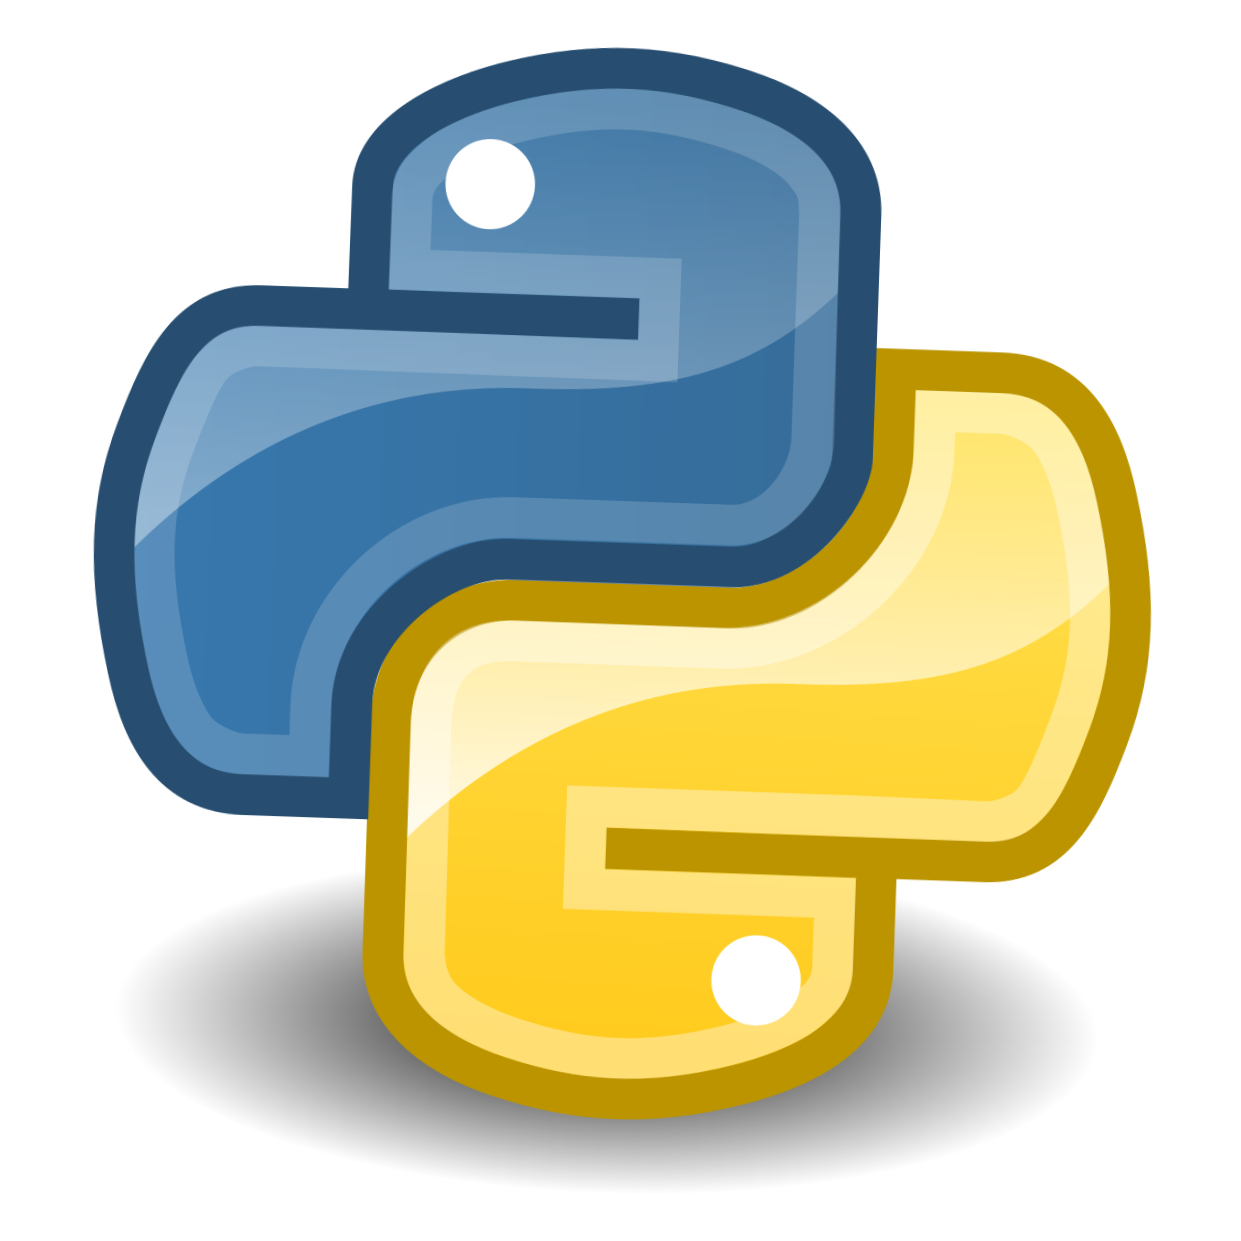
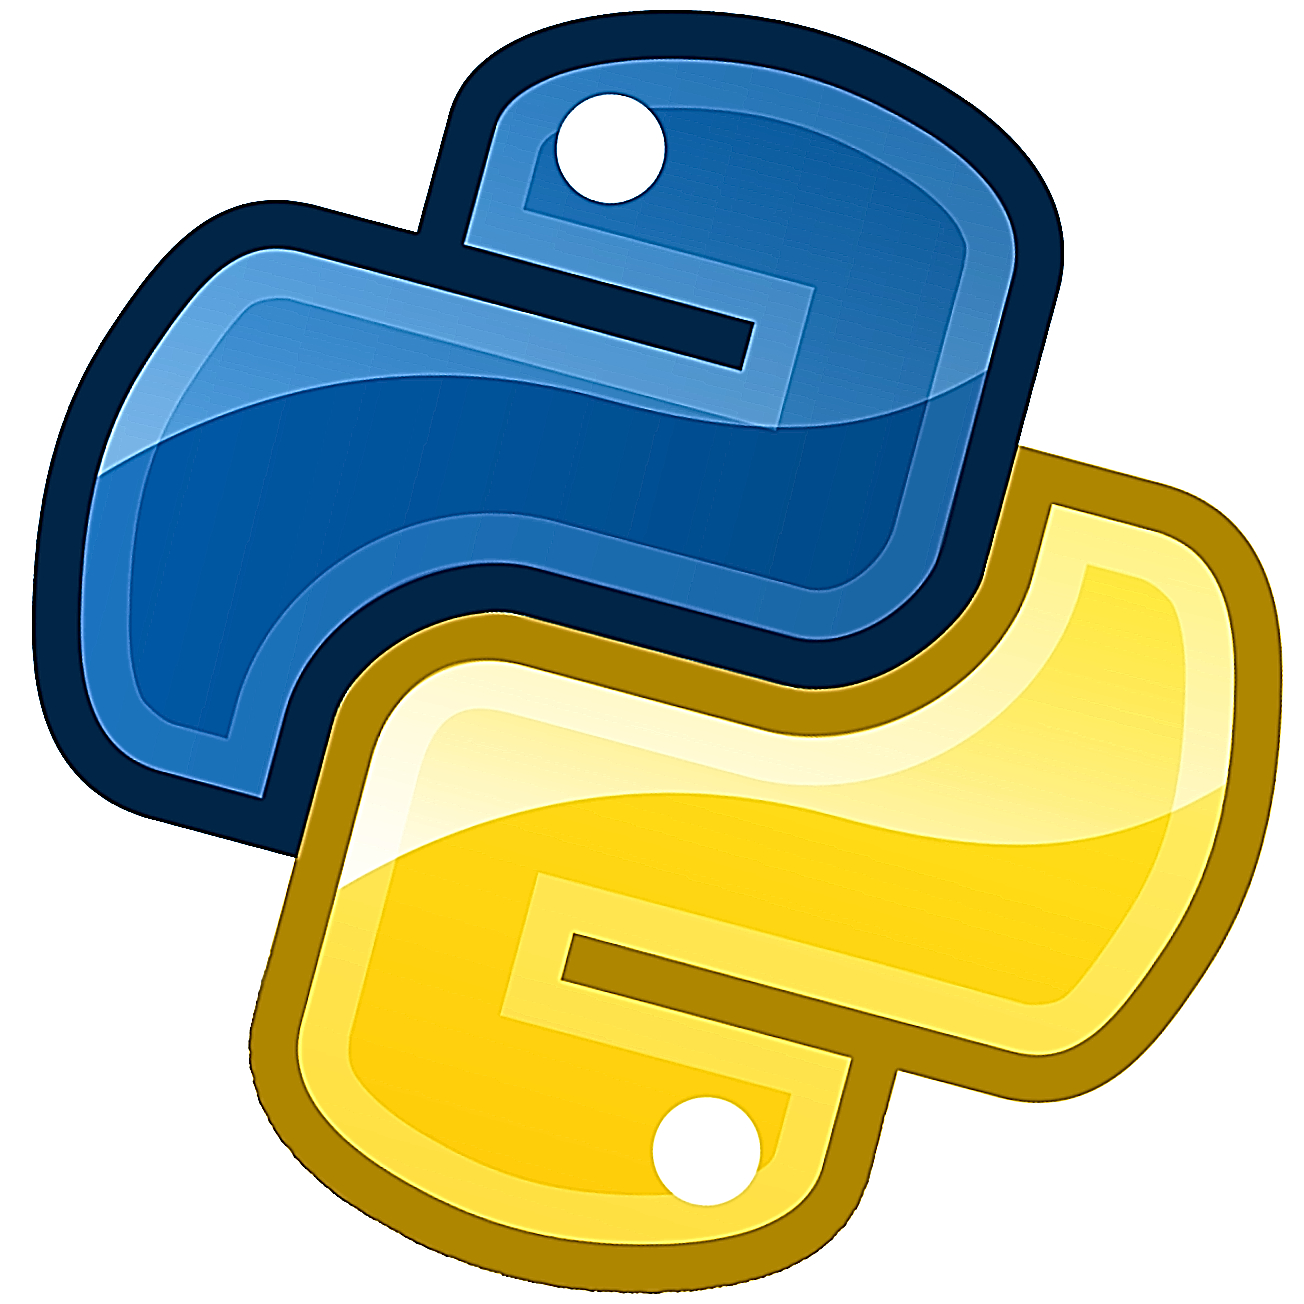
minor changes

diff --git a/parse/simple_parse.py b/parse/simple_parse.py
@@ -104,7 +104,7 @@ def main(cfg):
 
 
 	# извлекаем из них частотный словарь
-	print('counting words... [please wait - about 3 minutes] ', end='', flush=True)
+	print('counting words... [please wait - about minute] ', end='', flush=True)
 	words_counts = Counter()
 
 	# параметр 'i' - для тестирования
@@ -122,13 +122,13 @@ def main(cfg):
 	with Image.open(io.BytesIO(urlopen(cfg['image_url']).read())) as img:
 		print('printing image... ', end='', flush=True)
 		img_mask = np.array(img)
-		wc = wcloud(width=800,
-					height=165,
+		wc = wcloud(width=1100,
+					height=1100,
 					min_font_size=1,
 					background_color=cfg['bg_color'],
 					max_words=cfg['cloud_max_wrds'], 
 					mask=img_mask,
-					max_font_size=50, 
+					max_font_size=80, 
 					random_state=42)
 		wc.generate_from_frequencies(words_counts)
 		image_colors = ImageColorGenerator(img_mask)
@@ -148,7 +148,7 @@ cfg = {'params': {'q': 'Russia',
 	'url': 
 		'https://news.google.com/_/rss/search',
 	'image_url': 
-		'https://raw.githubusercontent.com/Gronix/py_examples/master/parse/Python.png',
+		'https://lh5.googleusercontent.com/dsOWR_WRQx8YvxJbX_k_BJOsH9ik1EtIELWpkPwZ4MAXJ1RioaRqwSlgzpmi8BP4lUIpGKMXDahKt9dNaycj=w1267-h620-rw',
 	'bg_color': 
 		'#FFFFFF',
 	'cloud_max_wrds': 2000,
@@ -171,7 +171,7 @@ cfg = {'params': {'q': 'Russia',
 		'two', 'how', 'our', 'work', 'well', 'way', 'even', 'new', 'want', 
 		'because', 'any', 'these', 'give', 'day', 'most', 'us', 's',
 		'is', 'has', 'are', 'had', 'such', 'was', 'those', 'said', 'did', 
-		'u', 't', 'were', 'more', 'been']
+		'u', 't', 'were', 'more', 'been', 'quot']
 	}
 
 # чтобы из интерпретатора запускать функции вручную, а из консоли работать как и запланировано.
